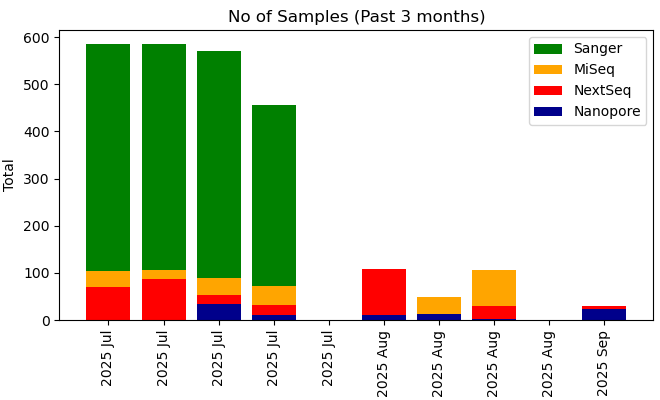
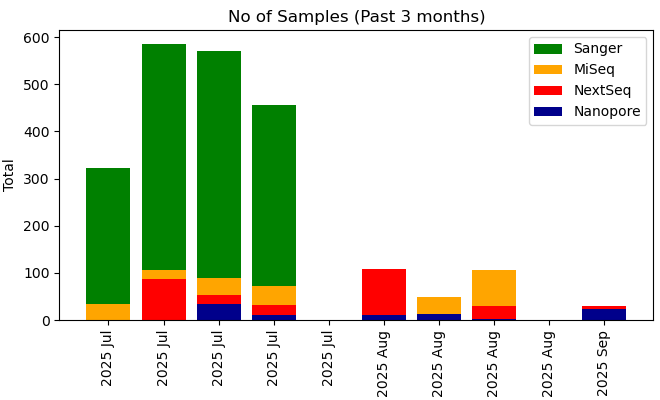
Your commit message here

Changed region(s): [[0.1212, 0.09, 0.2121, 0.42], [0.1212, 0.66, 0.2121, 0.81]]

diff --git a/krona/cgs.html b/krona/cgs.html
@@ -52,8 +52,8 @@ body {
   flex-direction: column;
 }
 </style>
-<H1>Genomics Facility Status: 07:00:08, 24/09/2025</H1>
-<marquee behavior="scroll" scrollamount="20" direction="left" bgcolor="lightgrey">AGAGTTTGATCCTGGCTCAGGATGAACGCTGGCGGCGTGCTTAACACATGCAAGTCGAACGGGAATTACTTTAGGGAGGCTGCGGGGGGTGTAAGTTAGTTCAAGTGGTGGAGAAGCTGCTAACTCCGGGGGGACAGGCGCTCGAAAGGGGGGGAAAAATCGGAAACTCACGGGAGTAGCGTGGAGGCGGGCCGAAGGCCAAGGTGGGAGGGGAAGGACACCCGGGTGCTTAGGATGACGGCCGGTTGACG</marquee>
+<H1>Genomics Facility Status: 07:00:10, 25/09/2025</H1>
+<marquee behavior="scroll" scrollamount="20" direction="left" bgcolor="lightgrey">AGAGTTTGATCCTGGCTCAGGACGAACGCTGGCGACATGCCTAACACATGCAAGTCGAGCGGCGAAATGGTGGTTTCCCTTCGGAATAGAGATGGAGACGCGCGCAAGACTGTGGCAAACGTGCCCTACCTGGAGGAAAATAGTTAGTAACGTCTGGTAATAACGAATAACACCGGAGGGTGGCATATTACCGAAACCAAAGTTTATAACGGTCAGACGTGTGCCGGTGGCGGATTGGTCCATTGGTTGGG</marquee>
 <TABLE BORDER=0><TR><TD><TABLE class="styled-table"><H3>GigaBases Sequenced</H3>
 <TR><TD><b>Platform</b></TD><TD><b>Week</b></TD><TD><b>Month</b></TD><TD><b>Year</b></TD><TD><b>Total</b></TD></TR><TR><TD>Illumina MiSeq</TD><TD>0.0</TD><TD>12.05</TD><TD>287.91</TD><TD>287.91</TD></TR><TR><TD>Illumina NextSeq</TD><TD>0.0</TD><TD>8.08</TD><TD>4435.7</TD><TD>4435.7</TD></TR><TR><TD>Nanopore PromethION</TD><TD>0.0</TD><TD>354.42</TD><TD>5055.38</TD><TD>6986.56</TD></TR><TR><TD>Sanger</TD><TD>0.0</TD><TD>0.0</TD><TD>0.02</TD><TD>0.03</TD></TR></TABLE></TD><TD><IMG SRC="fig1.png"><IMG SRC="fig2.png"></TD></TR><TR><TD><H3>No. Samples (No. Experiments)</H3>
-<TABLE class="styled-table"><TR><TD><b>Platform</b></TD><TD><b>Week</b></TD><TD><b>Month</b></TD><TD><b>Year</b></TD><TD><b>Total</b></TD></TR><TR><TD>Illumina MiSeq</TD><TD>0 (0)</TD><TD>14 (2)</TD><TD>1397 (43)</TD><TD>1397 (43)</TD></TR><TR><TD>Illumina NextSeq</TD><TD>0 (0)</TD><TD>6 (1)</TD><TD>1359 (48)</TD><TD>1359 (48)</TD></TR><TR><TD>Nanopore PromethION</TD><TD>0 (0)</TD><TD>25 (3)</TD><TD>311 (127)</TD><TD>589 (194)</TD></TR><TR><TD>Sanger</TD><TD>0 (0)</TD><TD>0 (0)</TD><TD>19655 (19655)</TD><TD>28103 (28103)</TD></TR></TABLE></TD><TD><IMG SRC="fig4.png"></TD></TR></TABLE></HTML>
+<TABLE class="styled-table"><TR><TD><b>Platform</b></TD><TD><b>Week</b></TD><TD><b>Month</b></TD><TD><b>Year</b></TD><TD><b>Total</b></TD></TR><TR><TD>Illumina MiSeq</TD><TD>0 (0)</TD><TD>14 (2)</TD><TD>1397 (43)</TD><TD>1397 (43)</TD></TR><TR><TD>Illumina NextSeq</TD><TD>0 (0)</TD><TD>6 (1)</TD><TD>1359 (48)</TD><TD>1359 (48)</TD></TR><TR><TD>Nanopore PromethION</TD><TD>0 (0)</TD><TD>25 (3)</TD><TD>311 (127)</TD><TD>589 (194)</TD></TR><TR><TD>Sanger</TD><TD>0 (0)</TD><TD>0 (0)</TD><TD>19559 (19559)</TD><TD>28103 (28103)</TD></TR></TABLE></TD><TD><IMG SRC="fig4.png"></TD></TR></TABLE></HTML>
